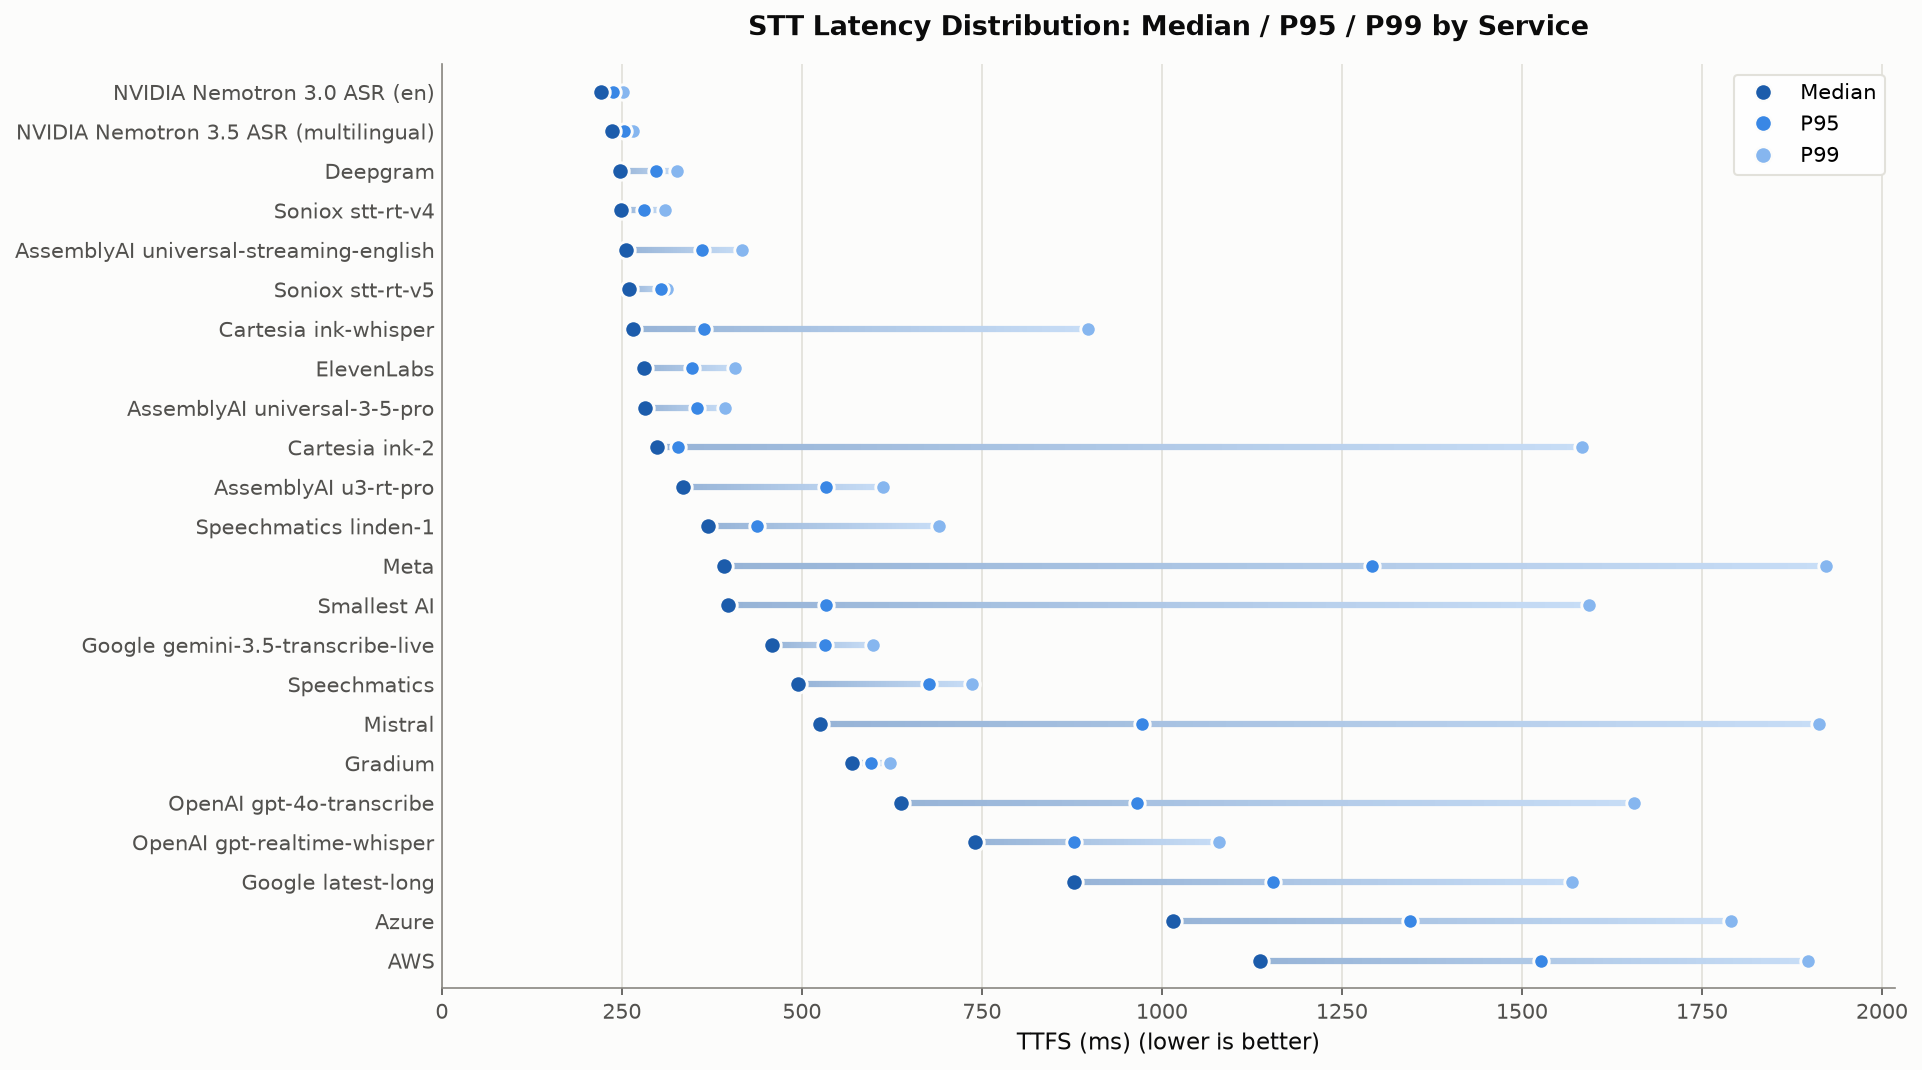
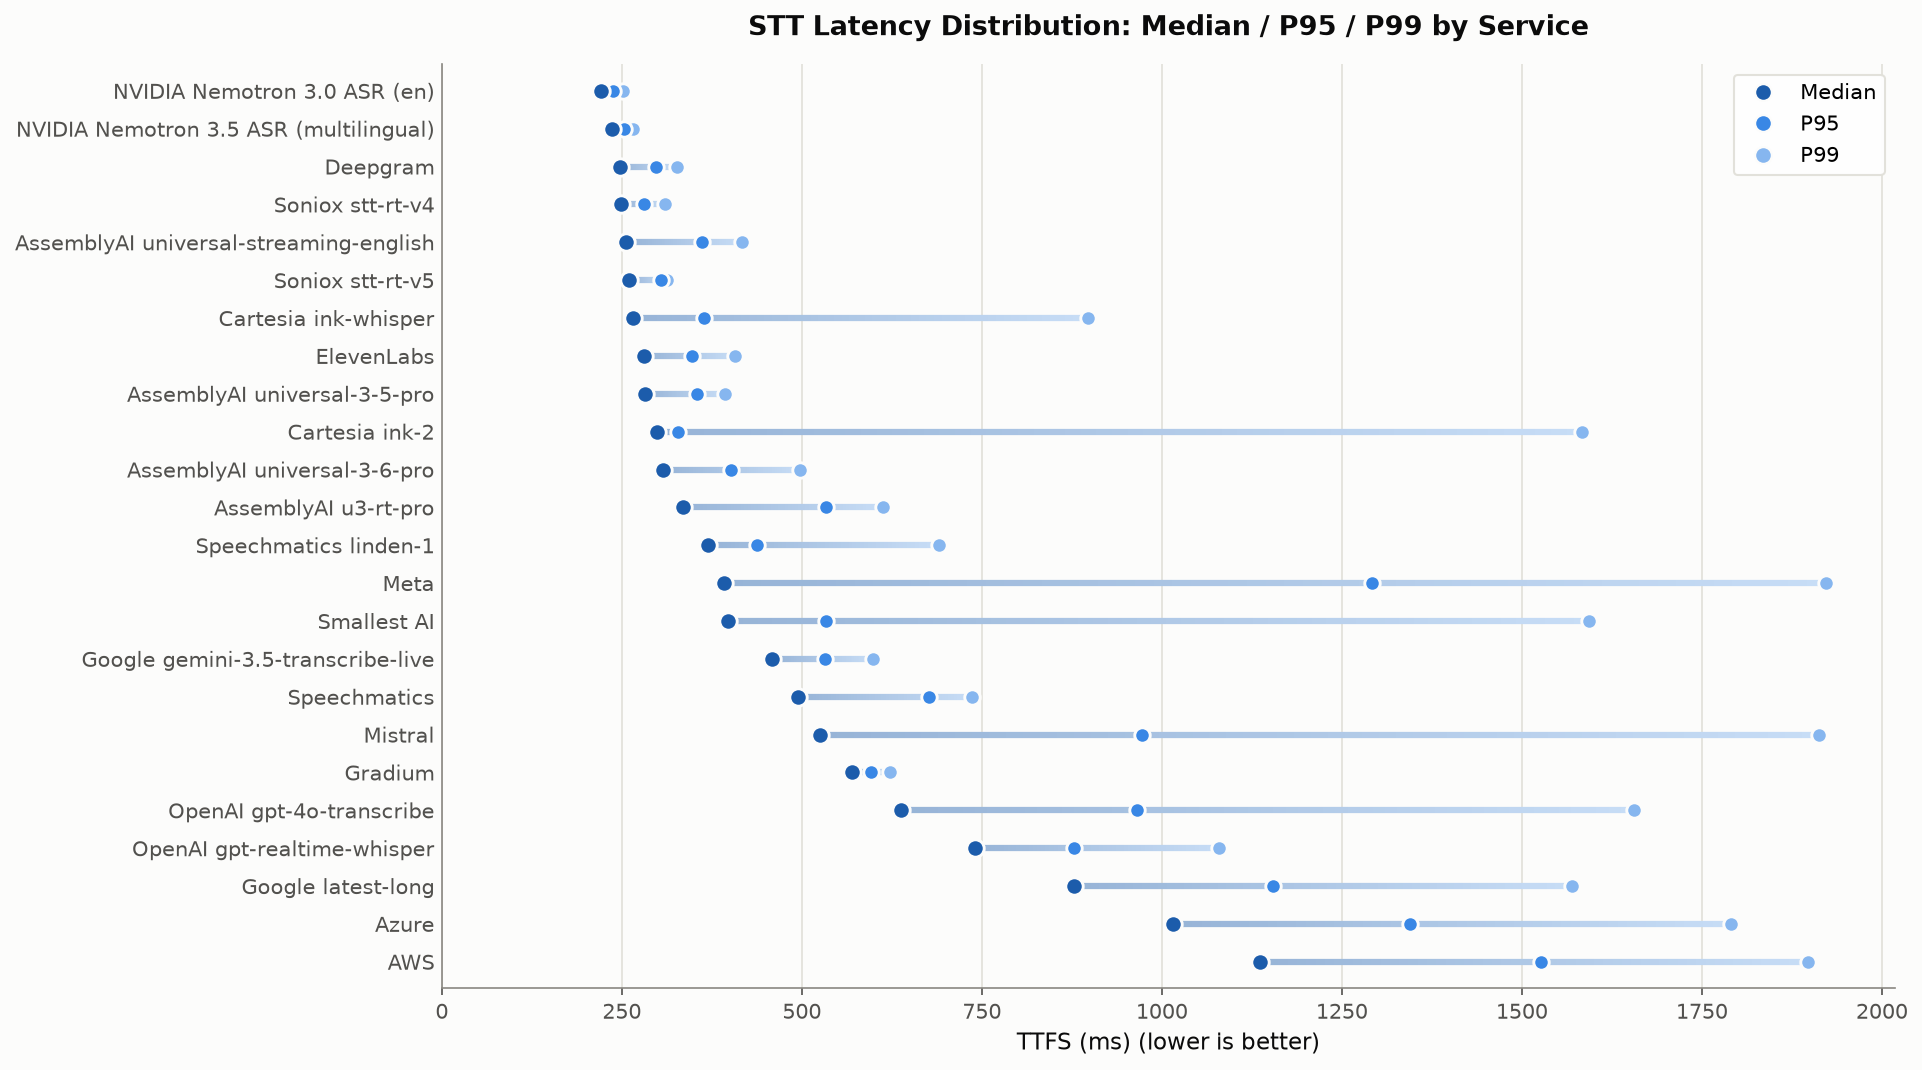
Add AssemblyAI universal-3-6-pro results to README and plots
1000 samples, zero errors. universal-3-6-pro improves on universal-3-5-pro
in accuracy (0.96% pooled WER vs 1.22%, 87.0% perfect vs 84.7%) at a small
latency cost (307ms median vs 282ms, 498ms P99 vs 393ms). It joins the
median Pareto frontier between universal-3-5-pro and Meta.

- Add its row to the README results table; universal-3-5-pro stays as a
  non-current entry.
- Regenerate the Pareto and latency-range charts.
- Hand-place the universal-3-6-pro and Speechmatics linden-1 labels, which
  collided around the new point.

Changed region(s): [[0.3122, 0.1234, 0.9677, 0.7402], [0.0, 0.0617, 0.2497, 0.8944], [0.4683, 0.7402, 0.8741, 0.8327]]

diff --git a/scripts/pareto-frontier-plot.py b/scripts/pareto-frontier-plot.py
@@ -49,7 +49,8 @@ DEFAULT_LABEL_OFFSETS = {
         "Cartesia ink-2": (8, -3, "left"),
         "AssemblyAI u3-rt-pro": (10, -1, "left"),
         "Speechmatics": (10, -2, "left"),
-        "Speechmatics linden-1": (-9, -12, "right"),
+        "Speechmatics linden-1": (10, -9, "left"),
+        "AssemblyAI universal-3-6-pro": (-10, -12, "right"),
         "Meta": (10, -4, "left"),
     },
 }

diff --git a/README.md b/README.md
@@ -9,8 +9,9 @@ Benchmark results on 1000 samples from the `pipecat-ai/smart-turn-data-v3.1-trai
 <!-- RESULTS_TABLE:START -->
 | Vendor | Model | Transcripts | Perfect | WER Mean | Pooled WER | TTFS Median | TTFS P95 | TTFS P99 |
 |--------|-------|-------------|---------|----------|------------|-------------|----------|----------|
-| AssemblyAI | universal-3-5-pro | 99.9% | 84.7% | 1.44% | 1.22% | 282ms | 354ms | 393ms |
+| AssemblyAI | universal-3-6-pro | 99.9% | 87.0% | 1.06% | 0.96% | 307ms | 401ms | 498ms |
 | AssemblyAI | u3-rt-pro | 99.8% | 83.9% | 1.74% | 1.34% | 335ms | 534ms | 613ms |
+| AssemblyAI | universal-3-5-pro | 99.9% | 84.7% | 1.44% | 1.22% | 282ms | 354ms | 393ms |
 | AssemblyAI | universal-streaming-english | 99.8% | 66.8% | 3.49% | 3.02% | 256ms | 362ms | 417ms |
 | AWS | N/A | 100.0% | 77.4% | 1.68% | 1.75% | 1136ms | 1527ms | 1897ms |
 | Azure | N/A | 100.0% | 82.9% | 1.21% | 1.18% | 1016ms | 1345ms | 1791ms |
